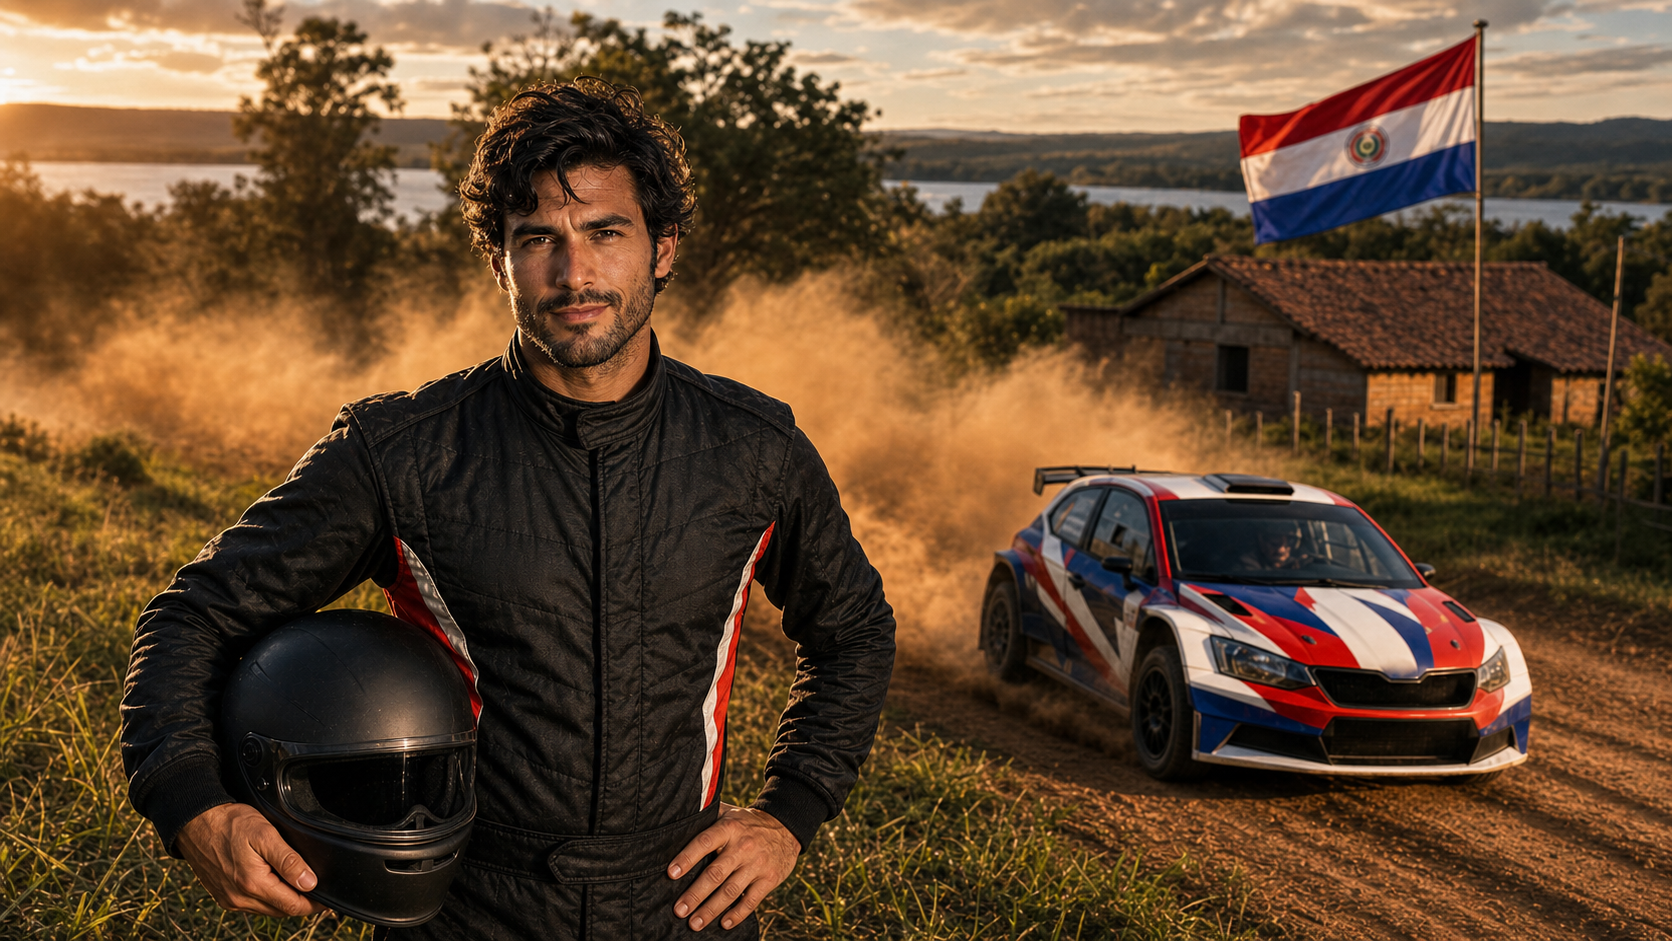
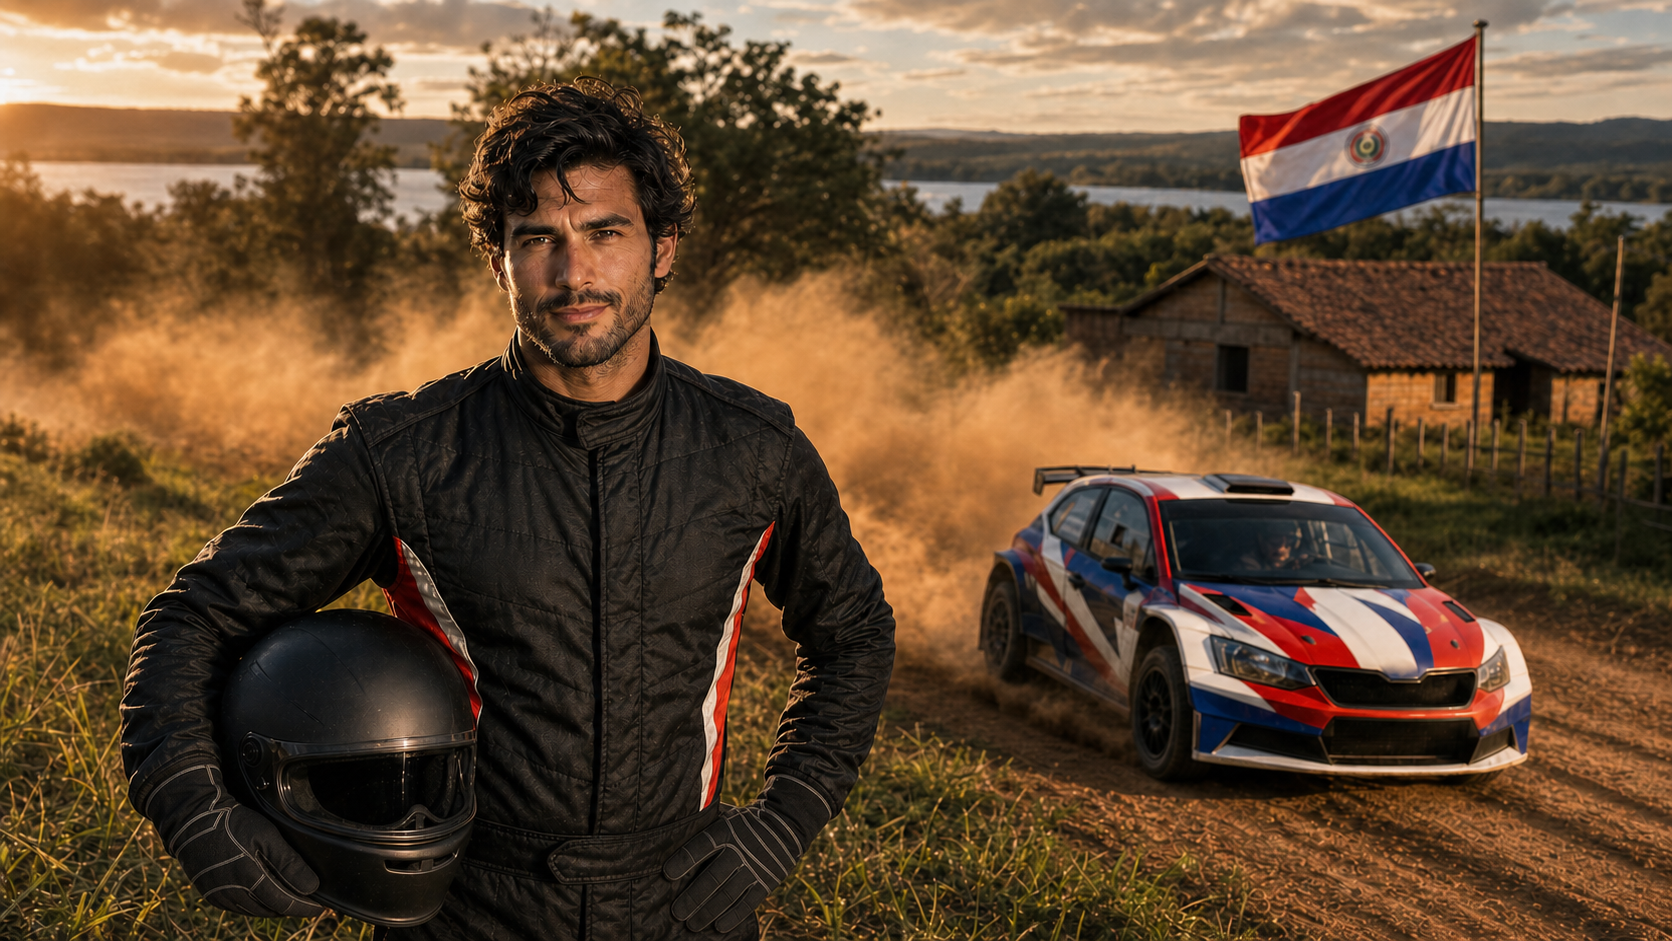
..

diff --git a/src/data/scenes.ts b/src/data/scenes.ts
@@ -15,11 +15,11 @@ export const scenes: Scene[] = [
     id: 'podium',
     eyebrow: 'VICTORIA',
     title: 'En el podio',
-    description: 'Celebrá una carrera inolvidable con todo el equipo.',
+    description: 'Celebrá una victoria inolvidable como protagonista absoluto.',
     instruction: 'Levantá un brazo o celebrá mirando de frente.',
     image: require('../../templates/podium.png'),
     prompt:
-      'Integrate the photographed participant as the central winner on the podium in the reference scene. Preserve their identity and facial features. Match the realistic racing suit, full body pose, lighting, perspective, shadows, and scale.',
+      'Integrate the photographed participant as the only winner on the podium, raising the championship trophy. Preserve their identity and facial features. Match the realistic racing suit, full-body victory pose, dramatic sunset lighting, perspective, shadows, and scale.',
   },
   {
     id: 'hero',

diff --git a/server/scenes.py b/server/scenes.py
@@ -47,22 +47,26 @@ SCENES: dict[str, SceneDefinition] = {
             width=1536,
             height=1024,
             editable_shapes=(
-                Ellipse(center_x=770, center_y=185, radius_x=165, radius_y=180),
-                Rectangle(left=575, top=230, right=955, bottom=1023),
+                Ellipse(center_x=800, center_y=205, radius_x=125, radius_y=135),
+                Ellipse(center_x=630, center_y=105, radius_x=100, radius_y=115),
+                Rectangle(left=585, top=105, right=710, bottom=390),
+                Rectangle(left=650, top=270, right=930, bottom=900),
             ),
         ),
         prompt=(
             "IMPORTANT: The central winner in the first image is only a placeholder and MUST NOT appear in "
-            "the result. The first image defines the target podium scene. The second image shows the actual "
+            "the result. The first image defines the target epic podium scene with one winner only. The "
+            "second image shows the actual "
             "participant, and the third image is an enlarged face reference of that same participant. The "
             "third image is authoritative for identity. Replace only the central winner inside the "
             "transparent masked area. Copy the participant's face exactly from the second and third images: "
             "face shape, eyes, eyebrows, "
             "nose, mouth, skin tone, age, hairstyle, and other key facial features. Create a coherent full "
-            "racing-suit body and victory pose. Keep all other fictional teammates, the podium, background, "
-            "framing, realistic lighting, shadows, "
-            "scale, and perspective from the first image. Produce one photorealistic landscape image and "
-            "do not add text, logos, borders, or extra people."
+            "racing-suit body in the same triumphant pose, raising the single championship trophy overhead. "
+            "Keep the gold medal, podium, Paraguay flag, historic ruins, golden confetti, dramatic sunset, "
+            "framing, realistic lighting, shadows, scale, and perspective from the first image. The result "
+            "must contain exactly one person and exactly one trophy. Produce one photorealistic landscape "
+            "image and do not add text, logos, borders, spectators, teammates, or extra people."
         ),
     ),
     "hero": SceneDefinition(

diff --git a/server/benchmark_xai.py b/server/benchmark_xai.py
@@ -36,15 +36,18 @@ XAI_SCENE_PROMPTS = {
     "podium": (
         "Create a new photorealistic composite. IMAGE 1 is the actual participant and "
         "the primary subject. IMAGE 2 is the target podium scene with a transparent "
-        "empty area in the central winner position. IMAGE 3 is a close-up of the "
+        "empty area in the single central winner and raised-trophy position. IMAGE 3 is a close-up of the "
         "participant in IMAGE 1 and is "
         "authoritative for facial identity. Place the participant from IMAGES 1 and 3 "
         "as the central winner, filling the transparent area of IMAGE 2 completely. The "
         "final person must be recognizably the participant: preserve face shape, eyes, "
         "eyebrows, nose, mouth, skin tone, age, and hairstyle. Create a coherent full "
-        "racing-suit body and victory pose. Recreate the teammates, podium, background, "
-        "framing, lighting, shadows, scale, and perspective from IMAGE 2. Do not return "
-        "IMAGE 2 unchanged. No text, logos, borders, or extra people."
+        "racing-suit body in the same triumphant pose, raising the single championship "
+        "trophy overhead. Recreate the gold medal, podium, Paraguay flag, historic ruins, "
+        "golden confetti, dramatic sunset, framing, lighting, shadows, scale, and perspective "
+        "from IMAGE 2. The final image must contain exactly one person and exactly one trophy. "
+        "Do not return IMAGE 2 unchanged. No text, logos, borders, spectators, teammates, or "
+        "extra people."
     ),
     "hero": (
         "Create a new photorealistic composite. IMAGE 1 is the actual participant and "
